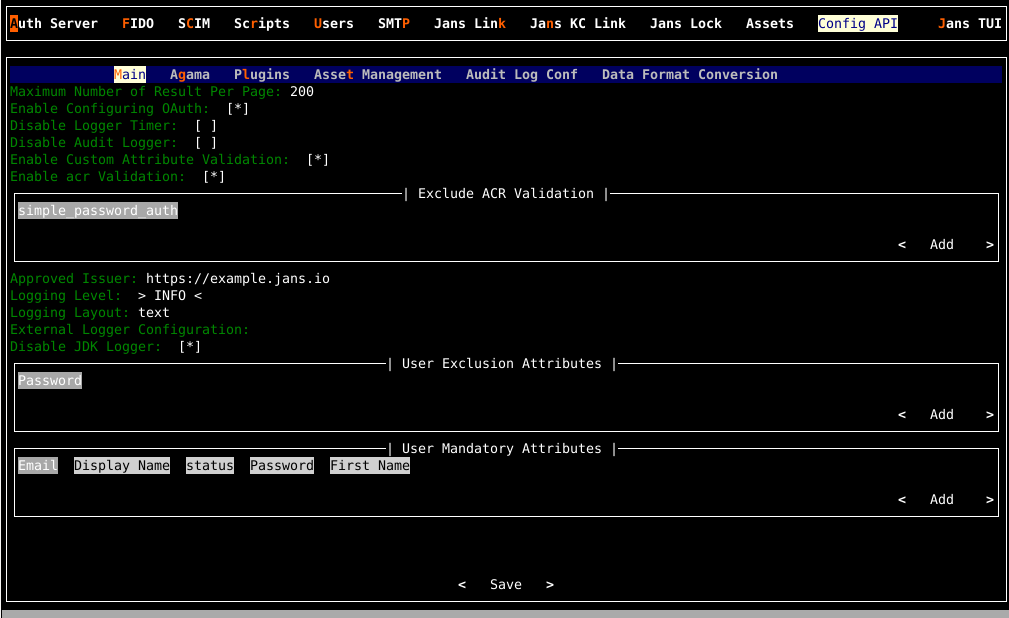
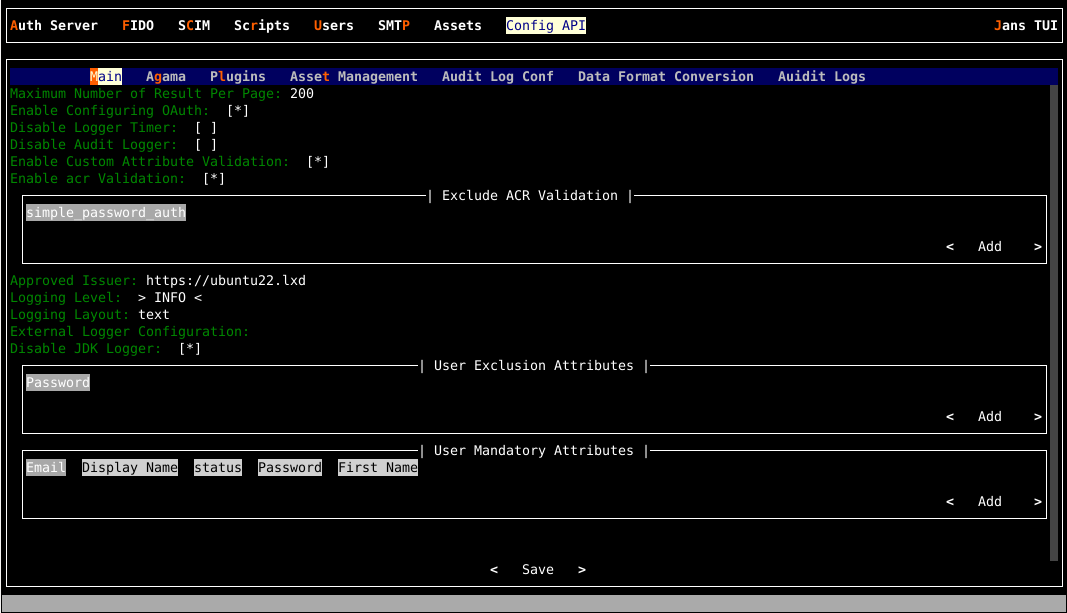
docs(jans-cli-tui): update config api screen

Changed region(s): [[0.0, 0.0, 1.0, 1.0], [0.3687, 0.5579, 0.6145, 0.6199]]

diff --git a/docs/janssen-server/config-guide/config-api-config/janssen-config-api-configuration.md b/docs/janssen-server/config-guide/config-api-config/janssen-config-api-configuration.md
@@ -291,7 +291,7 @@ sudo /opt/jans/jans-cli/jans_cli_tui.py
 
 Navigate to `Config API` section where administrators can update Config-API configurations
 in six sub-tabs, namely **Main**, **Agama**, **Plugins**, **Asset Management**, **Audit Log Conf**,
-**Data Format Conversion**
+**Data Format Conversion**, and **Auidit Logs**
 
 
 ![image](../../../assets/tui-config-api-main.png)
